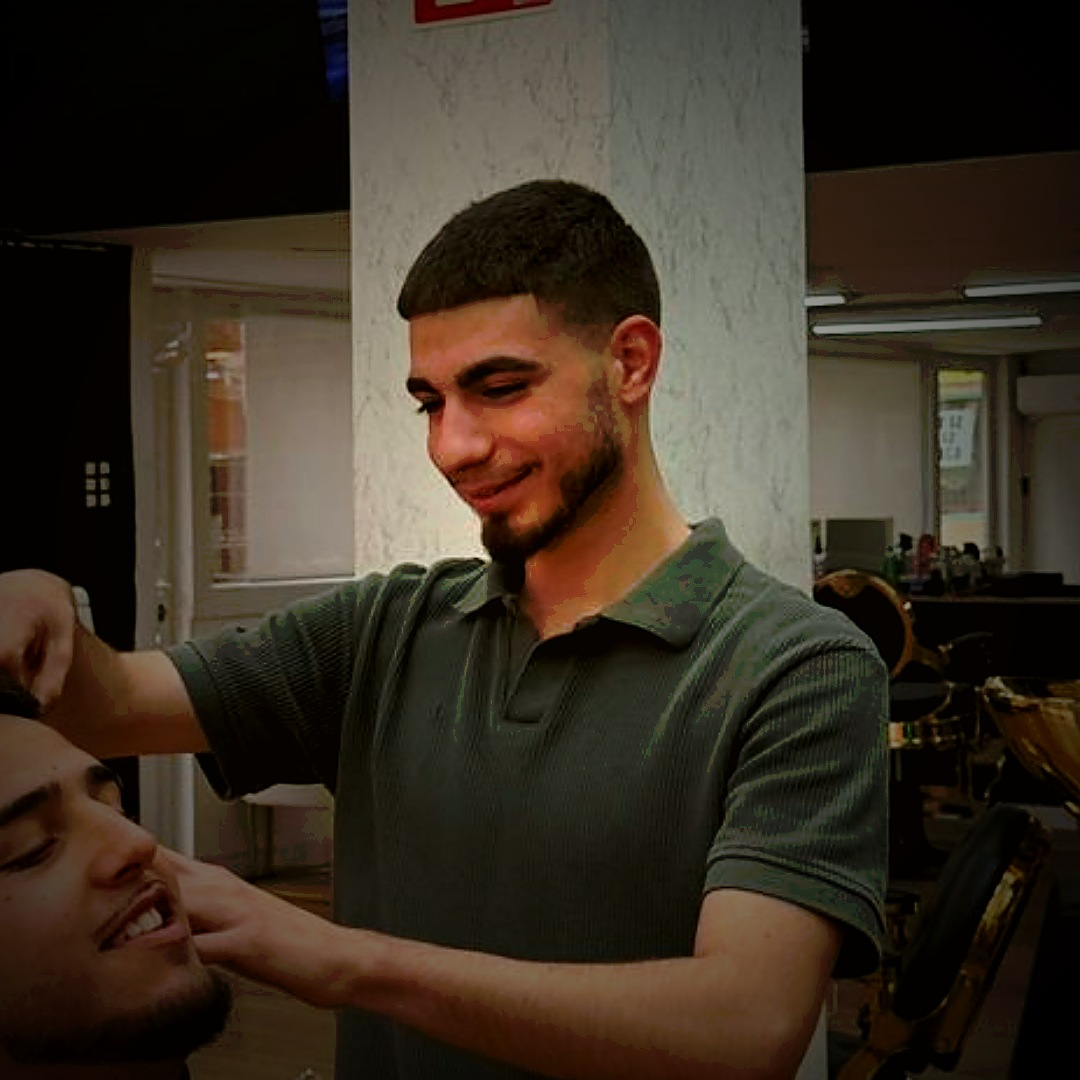
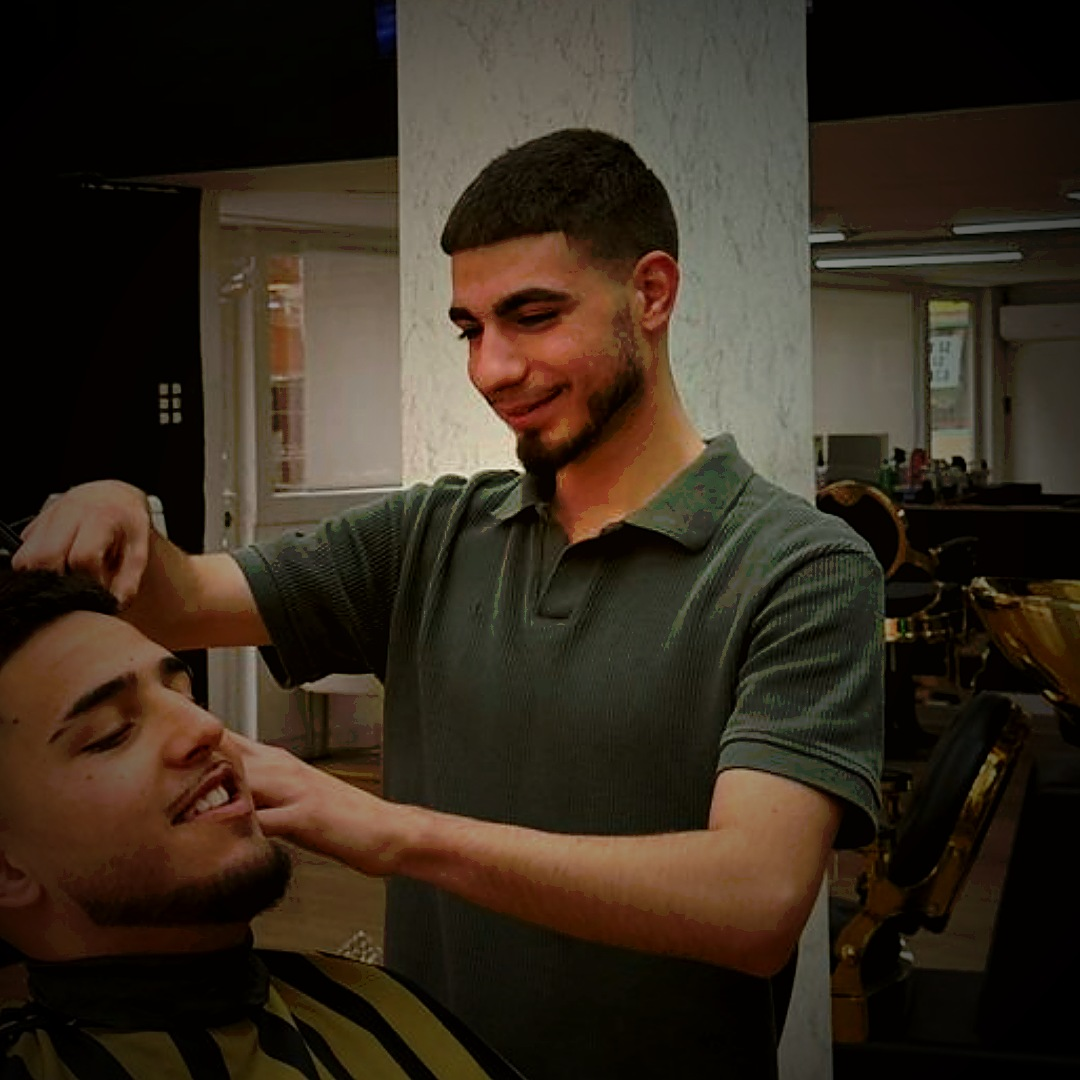
feat: aplicar edición barbershop a fotos de Riqui y Youssef (3)

diff --git a/index.html b/index.html
@@ -310,8 +310,8 @@
                     <!-- Riqui -->
                     <div class="barber-card reveal reveal-scale" data-delay="220">
                         <div class="barber-img-wrap">
-                            <img src="imagenes/riqui(3).jpg" class="barber-img barber-img--blur" alt="" loading="lazy">
-                            <img src="imagenes/riqui(3).jpg" class="barber-img barber-img--sharp" alt="Riqui" loading="lazy">
+                            <img src="imagenes/barber_riqui.jpg" class="barber-img barber-img--blur" alt="" loading="lazy">
+                            <img src="imagenes/barber_riqui.jpg" class="barber-img barber-img--sharp" alt="Riqui" loading="lazy">
                             <div class="barber-vignette"></div>
                         </div>
                         <div class="barber-info">
@@ -322,8 +322,8 @@
                     <!-- Youssef -->
                     <div class="barber-card reveal reveal-scale" data-delay="330">
                         <div class="barber-img-wrap">
-                            <img src="imagenes/youssef(3).jpg" class="barber-img barber-img--blur" alt="" loading="lazy">
-                            <img src="imagenes/youssef(3).jpg" class="barber-img barber-img--sharp" alt="Youssef" loading="lazy">
+                            <img src="imagenes/barber_youssef.jpg" class="barber-img barber-img--blur" alt="" loading="lazy">
+                            <img src="imagenes/barber_youssef.jpg" class="barber-img barber-img--sharp" alt="Youssef" loading="lazy">
                             <div class="barber-vignette"></div>
                         </div>
                         <div class="barber-info">
